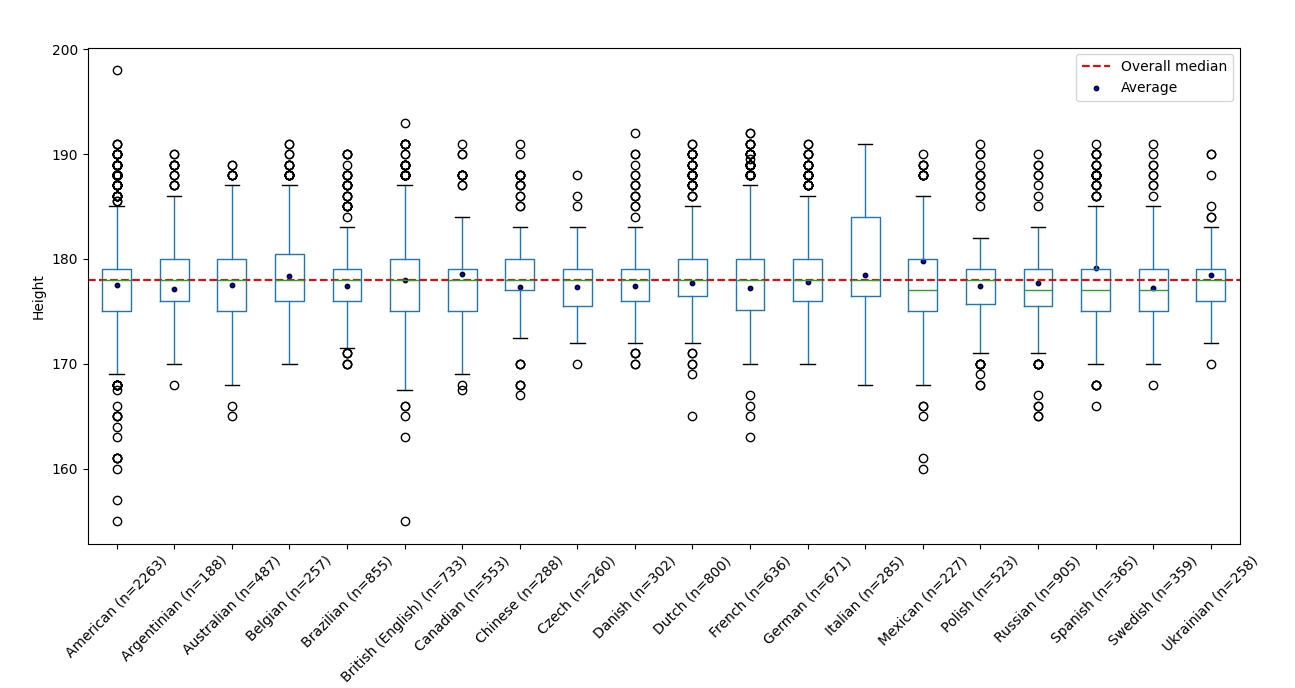
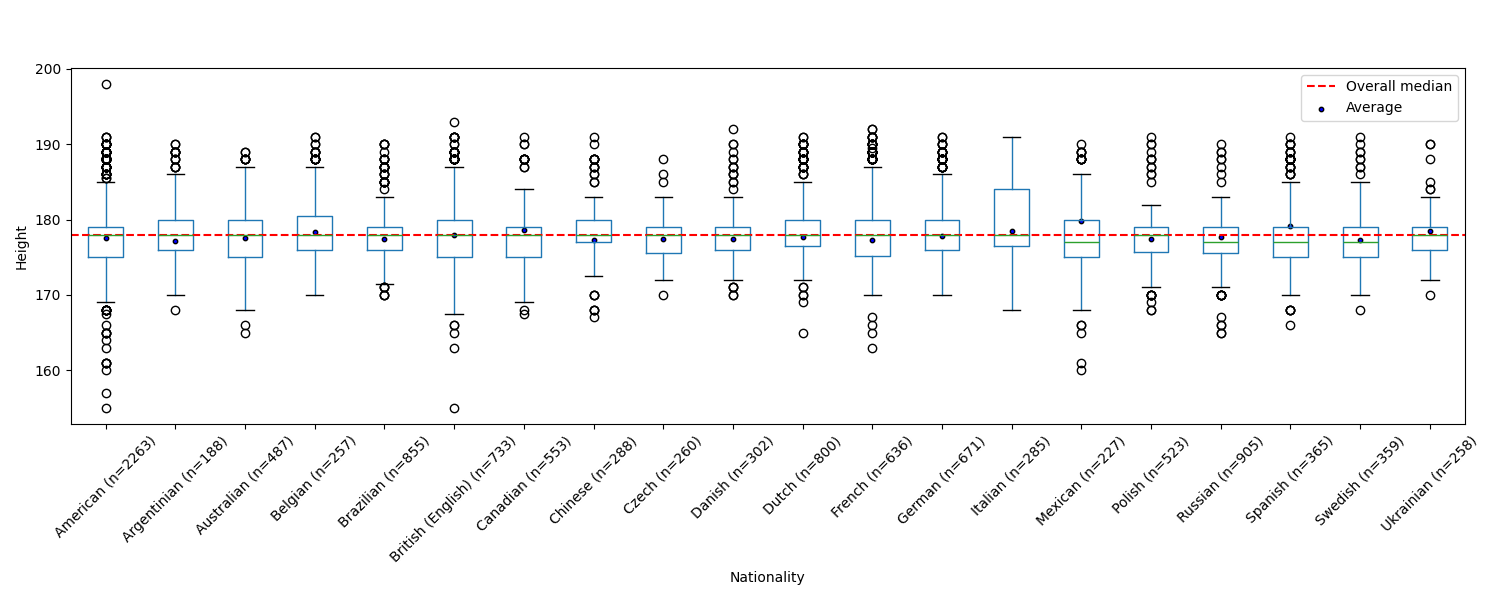
Added other plots to FMD example

diff --git a/examples/photos_example.py b/examples/photos_example.py
@@ -14,5 +14,5 @@ for i, st in enumerate(strings):
   img_src = scraping.find_string(st, 'src=\"', '\"')
 
   # Download image
-  filepath = 'tmp/' + str(i).zfill(4) + ".jpg"
+  filepath = str(i).zfill(4) + ".jpg"
   scraping.download_image(img_src, filepath)

diff --git a/scraping.py b/scraping.py
@@ -2,6 +2,7 @@ from urllib.request import urlopen, Request
 import re
 import string
 import sys
+from os import remove
 
 def open_url(u):
   print('Opening ' + u)

diff --git a/models/README.md b/models/README.md
@@ -31,36 +31,34 @@ Monica Bellucci,https://www.fashionmodeldirectory.com/models/monica_bellucci/,It
 ```
 
 ## Results
-The dataset contains 15030 people in total.
-
-### Quality
-Most of the birth dates are missing.
-
-![Quality](na.png)
-
-Name and url are always available.
-
 ### Descriptive analysis
-
-![Histograms](histograms.png)
+The dataset contains 15030 people in total.
 
 |        |  Name | Nationality | Birth date |     Height |       Bust |      Waist |       Hips | Dress |     Shoes |  Hair |  Eyes |
 | ------ | ----- | ----------- | ---------- | ---------- | ---------- | ---------- | ---------- | ----- | --------- | ----- | ----- |
-| count  | 15030 |       15009 |       5071 |      14988 |      14967 |      14916 |      14965 | 14847 |     14372 | 15011 | 15011 |
-| N/A    |     0 |          21 |       9959 |         42 |         63 |        114 |         65 |   183 |       658 |    19 |    19 |
-| unique | 15030 |         140 |       3468 |            |            |            |            |    36 |           |    19 |    17 |
-| freq   |     1 |        2263 |         99 |            |            |            |            |  5110 |           |  5094 |  4733 |
-| mean   |       |             |            |     177.85 |      83.45 |      61.89 |      88.60 |       |     39.80 |  |  |
-| std    |       |             |            |       3.76 |       4.65 |       4.55 |       3.06 |       |      1.70 |  |  |
-| min    | | | | [155.0](https://www.fashionmodeldirectory.com/models/celine_joiris/) | [70.0](https://www.fashionmodeldirectory.com/models/li_fuyao/) | [50.0](https://www.fashionmodeldirectory.com/models/gabriella_buhlin/) | [74.0](https://www.fashionmodeldirectory.com/models/luis_liranzo/)        |       |      35.0 |  |  |
-| 25%    |       |             |            |      175.0 |       81.0 |       60.0 |       87.0 |       |      39.0 |  |  |
-| 50%    |       |             |            |      178.0 |       83.0 |       61.0 |       89.0 |       |      39.0 |  |  |
-| 75%    |       |             |            |      180.0 |       86.0 |       62.0 |       90.0 |       |      41.0 |  |  |
-| max    | | | | [198.0](https://www.fashionmodeldirectory.com/models/dusty_lachowicz/) | [120.5](https://www.fashionmodeldirectory.com/models/lovisa_lager/) | [111.0](https://www.fashionmodeldirectory.com/models/ceval_omar/) | [138.5](https://www.fashionmodeldirectory.com/models/lovisa_lager/)  |       |      48.0 |  |  |
+| **count**  | 15030 |       15009 |       5071 |      14988 |      14967 |      14916 |      14965 | 14847 |     14372 | 15011 | 15011 |
+| **N/A**    |     0 |          21 |       9959 |         42 |         63 |        114 |         65 |   183 |       658 |    19 |    19 |
+| **unique** | 15030 |         140 |       3468 |            |            |            |            |    36 |           |    19 |    17 |
+| **freq**   |     1 |        2263 |         99 |            |            |            |            |  5110 |           |  5094 |  4733 |
+| **mean**   |       |             |            |     177.85 |      83.45 |      61.89 |      88.60 |       |     39.80 |  |  |
+| **std**    |       |             |            |       3.76 |       4.65 |       4.55 |       3.06 |       |      1.70 |  |  |
+| **min**    | | | | [155.0](https://www.fashionmodeldirectory.com/models/celine_joiris/) | [70.0](https://www.fashionmodeldirectory.com/models/li_fuyao/) | [50.0](https://www.fashionmodeldirectory.com/models/gabriella_buhlin/) | [74.0](https://www.fashionmodeldirectory.com/models/luis_liranzo/)        |       |      35.0 |  |  |
+| **25%**    |       |             |            |      175.0 |       81.0 |       60.0 |       87.0 |       |      39.0 |  |  |
+| **50%**    |       |             |            |      178.0 |       83.0 |       61.0 |       89.0 |       |      39.0 |  |  |
+| **75%**    |       |             |            |      180.0 |       86.0 |       62.0 |       90.0 |       |      41.0 |  |  |
+| **max**    | | | | [198.0](https://www.fashionmodeldirectory.com/models/dusty_lachowicz/) | [120.5](https://www.fashionmodeldirectory.com/models/lovisa_lager/) | [111.0](https://www.fashionmodeldirectory.com/models/ceval_omar/) | [138.5](https://www.fashionmodeldirectory.com/models/lovisa_lager/)  |       |      48.0 |  |  |
+
+![Percentages of N/A](na.png)
+
+![Histograms](histograms.png)
 
 ![Main scatter plot](main_scatter.png)
 
+![Main heatmap](main_heatmap.png)
+
 ![Height per nationality](height_nationalities.png)
+
+![Correlogram](correlogram.png)
 
 We grouped the colors of the eyes and the hair according to the following tables:
 
@@ -86,7 +84,7 @@ We grouped the colors of the eyes and the hair according to the following tables
 | Light red    |     6 | Red    |
 | bald         |     2 | Other  |
 
-|               | Count | Group (4) |
+|               | Count | Group (5) |
 | ------------- | ----- | ----- |
 | Blue          |  4733 | Blue  |
 | Brown         |  4438 | Brown |
@@ -106,6 +104,8 @@ We grouped the colors of the eyes and the hair according to the following tables
 | Dark green    |     1 | Green |
 | Blue / brown  |     1 | Blue  |
 
+![Dendrogram](dendrogram.png)
+
 ![Hair eyes heatmap](hair_eyes_heatmap.png)
 
 ![Hair per nationality](hair_nationalities.png)
@@ -117,7 +117,7 @@ In the dataset men and women are mixed. Differences in size and proportions betw
 
 ![Heatmap](heatmap.png)
 
-It seems that there are two distinct Gaussian distributions.
+It seems that there are two distinct Gaussian distributions...
 
 ## References
 1. Topirceanu, A., & Udrescu, M. (2015, September). *FMNet: Physical Trait Patterns in the Fashion World*. In Network Intelligence Conference (ENIC), 2015 Second European (pp. 25-32). IEEE.
